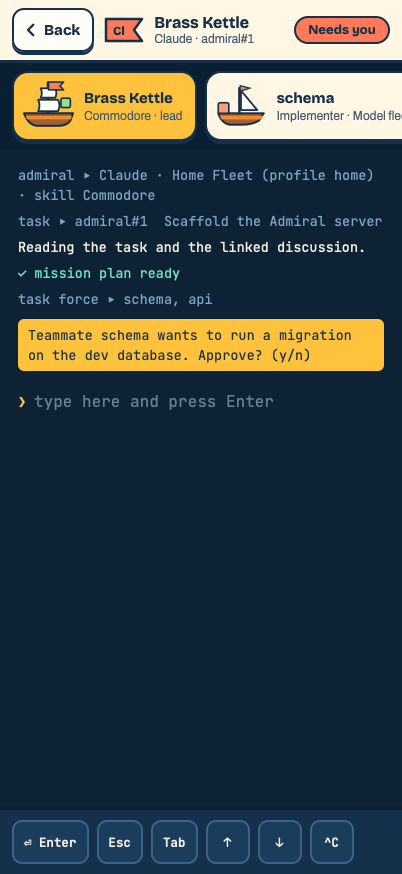
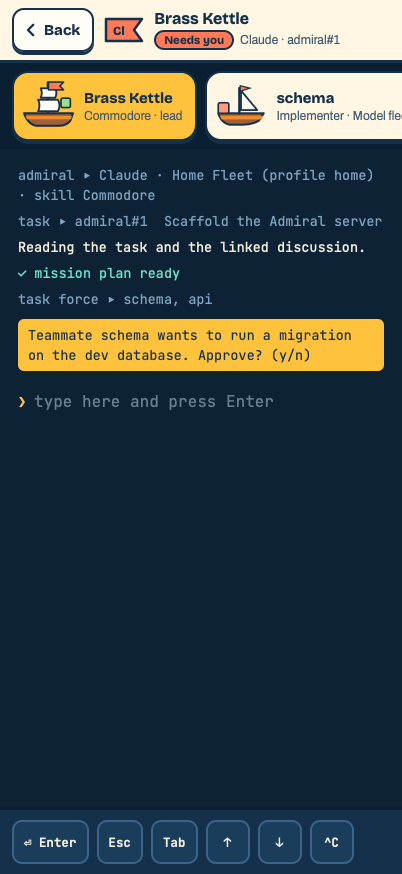
Keep the phone bridge title on one line on crew boats (#119)
The phone bridge's top bar is one fixed height: the ship name gives way first and the teammate's name stays, with the status as a small pill on a second line.

Changed region(s): [[0.7164, 0.0, 0.9851, 0.0618], [0.3881, 0.0, 0.6866, 0.0618]]

diff --git a/designs/canvas/Main.dc.html b/designs/canvas/Main.dc.html
@@ -456,11 +456,10 @@ a{color:#1C6FD1}a:hover{color:#14304A}
 <div style="flex: 0 0 auto; display: flex; align-items: center; gap: 10px; padding: max(8px, env(safe-area-inset-top)) calc(12px + env(safe-area-inset-right)) 8px calc(12px + env(safe-area-inset-left)); background-color: #FFF6E3; border-bottom: 3px solid #14304A">
 <button type="button" class="press" onClick="{{closeBridge}}" aria-label="Back" style="flex: 0 0 auto; display: inline-flex; align-items: center; gap: 4px; min-width: 44px; height: 44px; padding: 0 12px 0 8px; border-radius: 12px; border: 2.5px solid #14304A; background-color: #FFFDF6; box-shadow: 0 3px 0 #14304A; font-family: 'Bricolage Grotesque', sans-serif; font-weight: 700; font-size: 15px"><svg width="18" height="18" viewBox="0 0 24 24" fill="none" stroke="#14304A" stroke-width="3" stroke-linecap="round" stroke-linejoin="round" aria-hidden="true"><path d="M15 5l-7 7 7 7"></path></svg>Back</button>
 <svg width="40" height="26" viewBox="0 0 40 26" aria-hidden="true" style="flex: 0 0 auto"><path d="M2 2 L38 2 L30 13 L38 24 L2 24 Z" fill="{{bridge.ship.flag}}" stroke="#14304A" stroke-width="2.5" stroke-linejoin="round"></path><text x="15" y="17.5" text-anchor="middle" font-family="Bricolage Grotesque, sans-serif" font-weight="800" font-size="12" fill="{{bridge.ship.flagInk}}">{{bridge.ship.mono}}</text></svg>
-<div style="flex: 1 1 auto; min-width: 0; display: flex; flex-direction: column; gap: 1px">
-<span style="font-family: 'Bricolage Grotesque', sans-serif; font-weight: 700; font-size: 16px; line-height: 1.1; overflow-wrap: anywhere">{{bridge.phoneTitle}}</span>
-<span style="font-size: 12px; color: #3E5870; overflow: hidden; text-overflow: ellipsis; white-space: nowrap">{{bridge.ship.harness}} · {{bridge.ship.task.id}}</span>
+<div style="flex: 1 1 auto; min-width: 0; height: 44px; display: flex; flex-direction: column; justify-content: center; gap: 2px">
+<span style="display: flex; min-width: 0; font-family: 'Bricolage Grotesque', sans-serif; font-weight: 700; font-size: 16px; line-height: 1.15; white-space: nowrap"><span style="flex: 0 1 auto; min-width: 0; overflow: hidden; text-overflow: ellipsis">{{bridge.ship.name}}</span><sc-if value="{{bridge.isCrew}}" hint-placeholder-val="{{ false }}"><span style="flex: 0 0 auto; max-width: 62%; overflow: hidden; text-overflow: ellipsis; padding-left: 0.35em">› {{bridge.focusName}}</span></sc-if></span>
+<span style="display: flex; align-items: center; gap: 6px; min-width: 0"><span style="{{bridge.phoneStatusStyle}}">{{bridge.statusText}}</span><span style="min-width: 0; font-size: 12px; color: #3E5870; overflow: hidden; text-overflow: ellipsis; white-space: nowrap">{{bridge.ship.harness}} · {{bridge.ship.task.id}}</span></span>
 </div>
-<span style="{{bridge.statusStyle}}">{{bridge.statusText}}</span>
 <sc-use name="bmenu" as="u" value="{{true}}"></sc-use>
 </div>
 </sc-if>
@@ -2387,7 +2386,8 @@ class Component extends DCLogic {
         : 'position: absolute; inset: 0; z-index: 6; background-color: rgba(11,31,51,.42); padding: 14px; display: flex; flex-wrap: ' + bridgeWrap + '; gap: 14px; align-items: stretch; overflow: auto';
       if (phone) bridge.statusStyle += '; flex: 0 0 auto; white-space: nowrap';
       bridge.stripCls = phone ? 'ph-strip' : undefined;
-      bridge.phoneTitle = bridge.ship.name + (bridge.isCrew ? ' › ' + bridge.focusName : '');
+      // The phone top bar is one fixed height: the status is a small pill on its second line, and a long ship name gives way first.
+      bridge.phoneStatusStyle = bridge.statusStyle.replace('font-size: 13px; padding: 4px 12px', 'font-size: 11.5px; padding: 1px 8px');
       bridge.navStyle = phone ? 'flex: 0 0 auto; display: flex; flex-direction: row; gap: 8px; overflow-x: auto; overscroll-behavior-x: contain; padding: 8px calc(12px + env(safe-area-inset-right)) 8px calc(12px + env(safe-area-inset-left)); background-color: #0B1F33'
         : 'flex: 1 1 200px; display: flex; flex-direction: column; gap: 10px; min-width: 0';
       bridge.termStyle = phone ? 'flex: 1 1 0; min-width: 0; min-height: 0; display: flex; flex-direction: column; overflow: hidden; background-color: #0E2235'

diff --git a/designs/prototype/index.html b/designs/prototype/index.html
@@ -467,11 +467,10 @@ a{color:#1C6FD1}a:hover{color:#14304A}
 <div style="flex: 0 0 auto; display: flex; align-items: center; gap: 10px; padding: max(8px, env(safe-area-inset-top)) calc(12px + env(safe-area-inset-right)) 8px calc(12px + env(safe-area-inset-left)); background-color: #FFF6E3; border-bottom: 3px solid #14304A">
 <button type="button" class="press" onClick="{{closeBridge}}" aria-label="Back" style="flex: 0 0 auto; display: inline-flex; align-items: center; gap: 4px; min-width: 44px; height: 44px; padding: 0 12px 0 8px; border-radius: 12px; border: 2.5px solid #14304A; background-color: #FFFDF6; box-shadow: 0 3px 0 #14304A; font-family: 'Bricolage Grotesque', sans-serif; font-weight: 700; font-size: 15px"><svg width="18" height="18" viewBox="0 0 24 24" fill="none" stroke="#14304A" stroke-width="3" stroke-linecap="round" stroke-linejoin="round" aria-hidden="true"><path d="M15 5l-7 7 7 7"></path></svg>Back</button>
 <svg width="40" height="26" viewBox="0 0 40 26" aria-hidden="true" style="flex: 0 0 auto"><path d="M2 2 L38 2 L30 13 L38 24 L2 24 Z" fill="{{bridge.ship.flag}}" stroke="#14304A" stroke-width="2.5" stroke-linejoin="round"></path><text x="15" y="17.5" text-anchor="middle" font-family="Bricolage Grotesque, sans-serif" font-weight="800" font-size="12" fill="{{bridge.ship.flagInk}}">{{bridge.ship.mono}}</text></svg>
-<div style="flex: 1 1 auto; min-width: 0; display: flex; flex-direction: column; gap: 1px">
-<span style="font-family: 'Bricolage Grotesque', sans-serif; font-weight: 700; font-size: 16px; line-height: 1.1; overflow-wrap: anywhere">{{bridge.phoneTitle}}</span>
-<span style="font-size: 12px; color: #3E5870; overflow: hidden; text-overflow: ellipsis; white-space: nowrap">{{bridge.ship.harness}} · {{bridge.ship.task.id}}</span>
+<div style="flex: 1 1 auto; min-width: 0; height: 44px; display: flex; flex-direction: column; justify-content: center; gap: 2px">
+<span style="display: flex; min-width: 0; font-family: 'Bricolage Grotesque', sans-serif; font-weight: 700; font-size: 16px; line-height: 1.15; white-space: nowrap"><span style="flex: 0 1 auto; min-width: 0; overflow: hidden; text-overflow: ellipsis">{{bridge.ship.name}}</span><sc-if value="{{bridge.isCrew}}" hint-placeholder-val="{{ false }}"><span style="flex: 0 0 auto; max-width: 62%; overflow: hidden; text-overflow: ellipsis; padding-left: 0.35em">› {{bridge.focusName}}</span></sc-if></span>
+<span style="display: flex; align-items: center; gap: 6px; min-width: 0"><span style="{{bridge.phoneStatusStyle}}">{{bridge.statusText}}</span><span style="min-width: 0; font-size: 12px; color: #3E5870; overflow: hidden; text-overflow: ellipsis; white-space: nowrap">{{bridge.ship.harness}} · {{bridge.ship.task.id}}</span></span>
 </div>
-<span style="{{bridge.statusStyle}}">{{bridge.statusText}}</span>
 <sc-use name="bmenu" as="u" value="{{true}}"></sc-use>
 </div>
 </sc-if>
@@ -2551,7 +2550,8 @@ class Component extends DCLogic {
         : 'position: absolute; inset: 0; z-index: 6; background-color: rgba(11,31,51,.42); padding: 14px; display: flex; flex-wrap: ' + bridgeWrap + '; gap: 14px; align-items: stretch; overflow: auto';
       if (phone) bridge.statusStyle += '; flex: 0 0 auto; white-space: nowrap';
       bridge.stripCls = phone ? 'ph-strip' : undefined;
-      bridge.phoneTitle = bridge.ship.name + (bridge.isCrew ? ' › ' + bridge.focusName : '');
+      // The phone top bar is one fixed height: the status is a small pill on its second line, and a long ship name gives way first.
+      bridge.phoneStatusStyle = bridge.statusStyle.replace('font-size: 13px; padding: 4px 12px', 'font-size: 11.5px; padding: 1px 8px');
       bridge.navStyle = phone ? 'flex: 0 0 auto; display: flex; flex-direction: row; gap: 8px; overflow-x: auto; overscroll-behavior-x: contain; padding: 8px calc(12px + env(safe-area-inset-right)) 8px calc(12px + env(safe-area-inset-left)); background-color: #0B1F33'
         : 'flex: 1 1 200px; display: flex; flex-direction: column; gap: 10px; min-width: 0';
       bridge.termStyle = phone ? 'flex: 1 1 0; min-width: 0; min-height: 0; display: flex; flex-direction: column; overflow: hidden; background-color: #0E2235'
